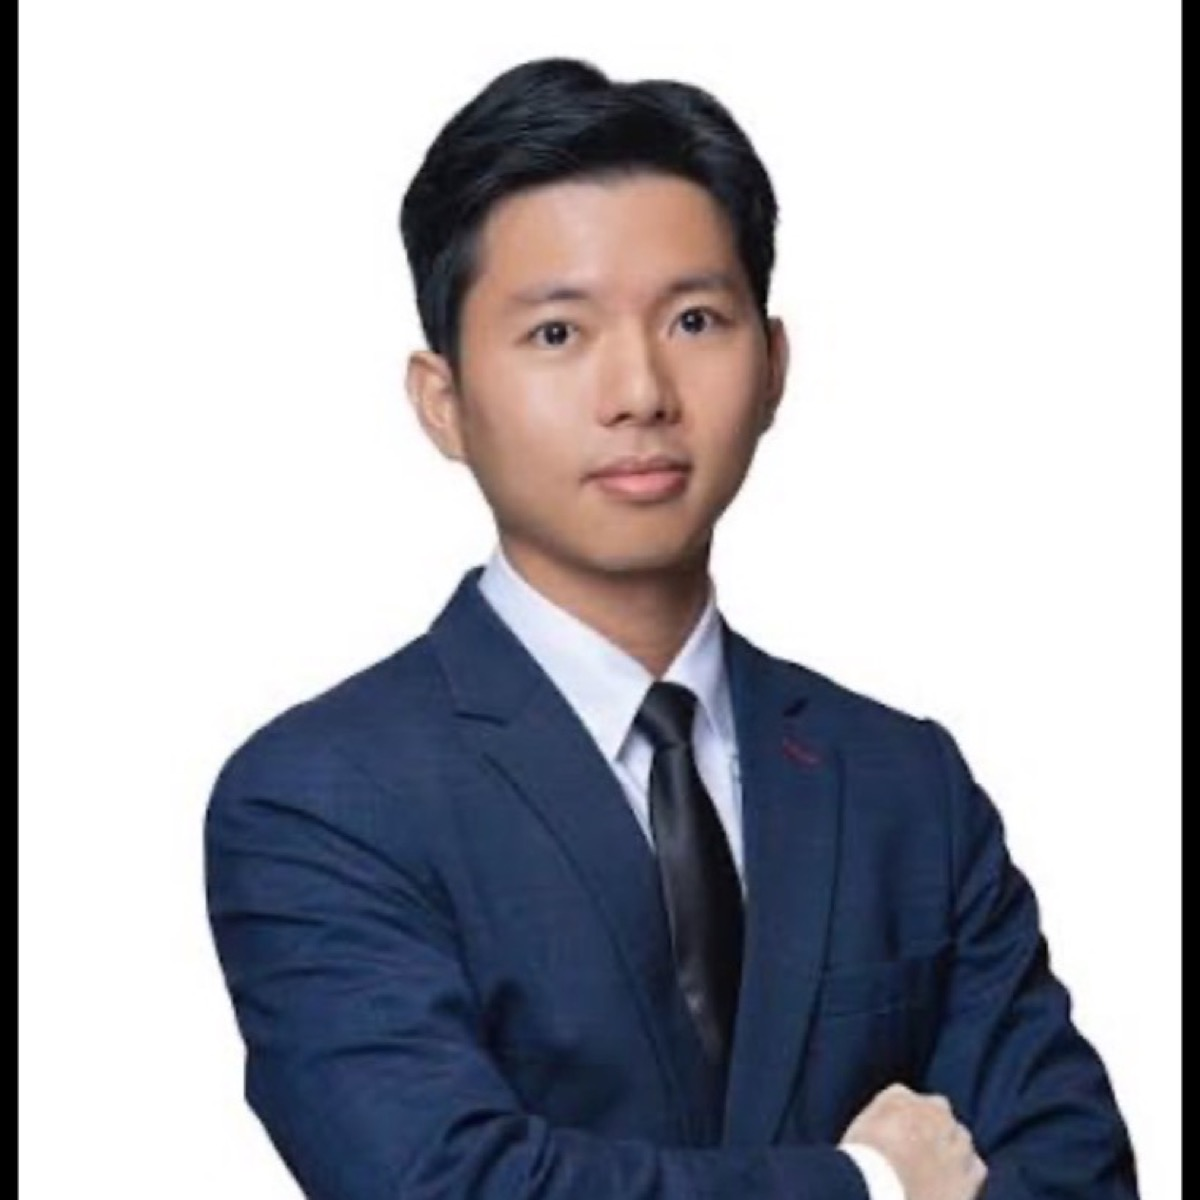
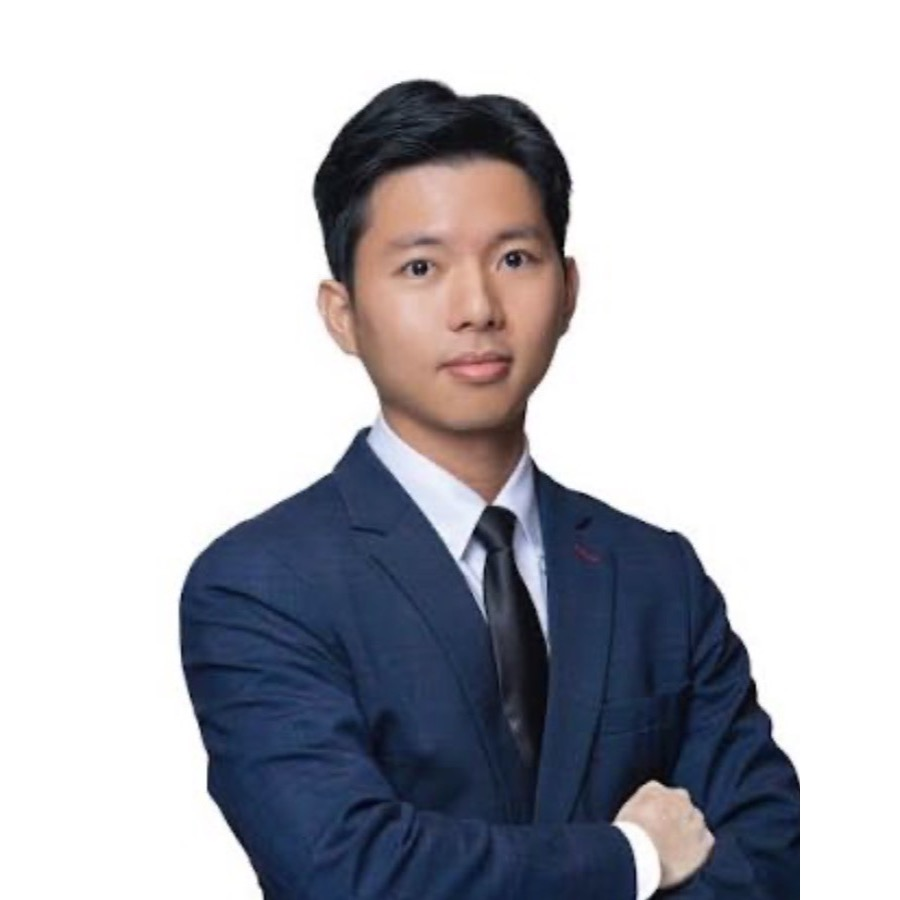
Refine Dr Wong booking notice and photo crop

diff --git a/components/booking/BookingTabFlow.tsx b/components/booking/BookingTabFlow.tsx
@@ -103,7 +103,7 @@ const WEEKDAY_LABELS = ['一', '二', '三', '四', '五', '六', '日'] as cons
 const WEEKDAY_LABELS_ZH = ['週日', '週一', '週二', '週三', '週四', '週五', '週六'] as const;
 const OTHER_TREATMENT_OPTION_ID: BookingTreatmentOptionId = 'other';
 const DR_WONG_GROUP_BOOKING_NOTICE =
-  '為咗方便醫生安排時間，呢個時段需要最少三位病人先會開診。未滿三人，系統會自動取消預約，唔好意思。';
+  '為方便醫生安排時間，每節需要最少三位病人才會開診。若未滿三人，系統會自動取消預約。若果人數足夠確認預約，會前一天以電郵確認。';
 
 const VISIT_TYPE_LABELS: Record<VisitType, string> = {
   first: '首診',

diff --git a/app/dr-wong/page.tsx b/app/dr-wong/page.tsx
@@ -90,7 +90,7 @@ export default function DrWongPage() {
               預約 Dr Wong
             </div>
             <p className="mt-3 text-sm leading-relaxed text-[#496153]">
-              佐敦應診時間：星期四 10:30-13:00、星期六 14:30-16:30。為咗方便醫生安排時間，呢個時段需要最少三位病人先會開診。未滿三人，系統會自動取消預約，唔好意思。
+              佐敦應診時間：星期四 10:30-13:00、星期六 14:30-16:30。為方便醫生安排時間，每節需要最少三位病人才會開診。若未滿三人，系統會自動取消預約。若果人數足夠確認預約，會前一天以電郵確認。
             </p>
 
             <Link

diff --git a/app/api/cron/group-booking-cancellations/route.ts b/app/api/cron/group-booking-cancellations/route.ts
@@ -151,7 +151,7 @@ export async function GET(request: NextRequest) {
               clinicNameZh: item.clinicNameZh,
               appointmentDate: item.appointmentDate,
               appointmentTime: item.appointmentTime,
-              cancellationReason: "因時段未滿三位病人，未能開診，系統已自動取消預約。唔好意思。",
+              cancellationReason: "因未滿三位病人，未能開診，系統已自動取消預約。",
               clinicWhatsappPhone: getClinicWhatsappPhone(item.clinicId),
               manageAccessToken: phoneDigits ? createManageAccessToken(phoneDigits) : undefined,
             });

diff --git a/lib/group-booking-policy.ts b/lib/group-booking-policy.ts
@@ -20,7 +20,7 @@ export type GroupBookingSession = GroupBookingPolicy["sessions"][number] & {
 };
 
 export const DR_WONG_GROUP_BOOKING_NOTICE =
-  "為咗方便醫生安排時間，呢個時段需要最少三位病人先會開診。未滿三人，系統會自動取消預約，唔好意思。";
+  "為方便醫生安排時間，每節需要最少三位病人才會開診。若未滿三人，系統會自動取消預約。若果人數足夠確認預約，會前一天以電郵確認。";
 
 export const GROUP_BOOKING_POLICIES: readonly GroupBookingPolicy[] = [
   {

diff --git a/shared/clinic-data.ts b/shared/clinic-data.ts
@@ -183,7 +183,7 @@ export const DOCTORS: DoctorProfile[] = [
     bookingSlotMinutes: 30,
     onlineBookingEnabled: false,
     scheduleNote:
-      '為咗方便醫生安排時間，呢個時段需要最少三位病人先會開診。未滿三人，系統會自動取消預約，唔好意思。',
+      '為方便醫生安排時間，每節需要最少三位病人才會開診。若未滿三人，系統會自動取消預約。若果人數足夠確認預約，會前一天以電郵確認。',
   },
 ];
 
